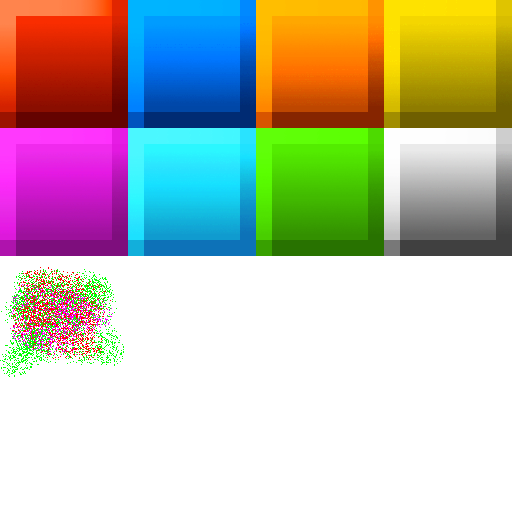
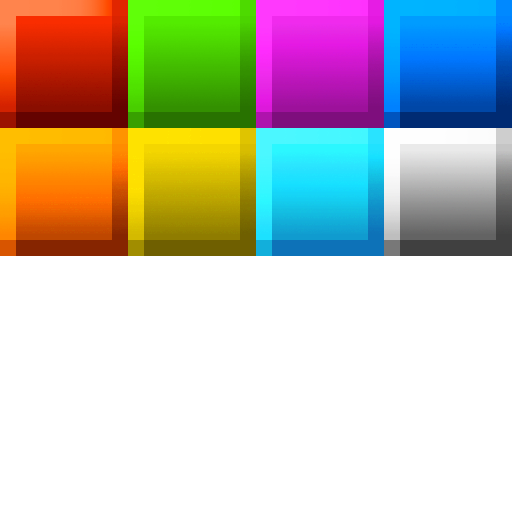
bugfix in color coding for tetrominoes

diff --git a/src/common/shapes.h b/src/common/shapes.h
@@ -28,20 +28,6 @@ enum {
     RIGHT
 };
 
-
-enum {
-    EMPTY = 0,
-    RED,
-    BLUE,
-    ORANGE,
-    YELLOW,
-    PINK,
-    CYAN,
-    GREEN,
-    LOCKED,
-    REMOVED
-};
-
 static int8_t PIECES[NB_TYPES][NB_ROTATIONS][SIZE][SIZE] = {
     { // I
         {
@@ -76,29 +62,29 @@ static int8_t PIECES[NB_TYPES][NB_ROTATIONS][SIZE][SIZE] = {
     { // Z
         {
             {0, 0, 0, 0},
-            {0, 7, 7, 0},
-            {0, 0, 7, 7},
+            {0, 2, 2, 0},
+            {0, 0, 2, 2},
             {0, 0, 0, 0}
         },
 
         {
-            {0, 0, 0, 7},
-            {0, 0, 7, 7},
-            {0, 0, 7, 0},
+            {0, 0, 0, 2},
+            {0, 0, 2, 2},
+            {0, 0, 2, 0},
             {0, 0, 0, 0}
         },
 
         {
             {0, 0, 0, 0},
-            {0, 7, 7, 0},
-            {0, 0, 7, 7},
+            {0, 2, 2, 0},
+            {0, 0, 2, 2},
             {0, 0, 0, 0}
         },
 
         {
-            {0, 0, 0, 7},
-            {0, 0, 7, 7},
-            {0, 0, 7, 0},
+            {0, 0, 0, 2},
+            {0, 0, 2, 2},
+            {0, 0, 2, 0},
             {0, 0, 0, 0}
         }
     },
@@ -106,29 +92,29 @@ static int8_t PIECES[NB_TYPES][NB_ROTATIONS][SIZE][SIZE] = {
     { // S
         {
             {0, 0, 0, 0},
-            {0, 0, 5, 5},
-            {0, 5, 5, 0},
+            {0, 0, 3, 3},
+            {0, 3, 3, 0},
             {0, 0, 0, 0}
         },
 
         {
-            {0, 5, 0, 0},
-            {0, 5, 5, 0},
-            {0, 0, 5, 0},
+            {0, 3, 0, 0},
+            {0, 3, 3, 0},
+            {0, 0, 3, 0},
             {0, 0, 0, 0}
         },
 
         {
             {0, 0, 0, 0},
-            {0, 0, 5, 5},
-            {0, 5, 5, 0},
+            {0, 0, 3, 3},
+            {0, 3, 3, 0},
             {0, 0, 0, 0}
         },
 
         {
-            {0, 5, 0, 0},
-            {0, 5, 5, 0},
-            {0, 0, 5, 0},
+            {0, 3, 0, 0},
+            {0, 3, 3, 0},
+            {0, 0, 3, 0},
             {0, 0, 0, 0}
         }
     },
@@ -136,29 +122,29 @@ static int8_t PIECES[NB_TYPES][NB_ROTATIONS][SIZE][SIZE] = {
     { // J
         {
             {0, 0, 0, 0},
-            {0, 2, 2, 2},
-            {0, 0, 0, 2},
+            {0, 4, 4, 4},
+            {0, 0, 0, 4},
             {0, 0, 0, 0}
         },
 
         {
-            {0, 0, 2, 2},
-            {0, 0, 2, 0},
-            {0, 0, 2, 0},
+            {0, 0, 4, 4},
+            {0, 0, 4, 0},
+            {0, 0, 4, 0},
             {0, 0, 0, 0}
         },
 
         {
             {0, 0, 0, 0},
-            {0, 2, 0, 0},
-            {0, 2, 2, 2},
+            {0, 4, 0, 0},
+            {0, 4, 4, 4},
             {0, 0, 0, 0}
         },
 
         {
-            {0, 0, 2, 0},
-            {0, 0, 2, 0},
-            {0, 2, 2, 0},
+            {0, 0, 4, 0},
+            {0, 0, 4, 0},
+            {0, 4, 4, 0},
             {0, 0, 0, 0}
         }
     },
@@ -166,29 +152,29 @@ static int8_t PIECES[NB_TYPES][NB_ROTATIONS][SIZE][SIZE] = {
     { // L
         {
             {0, 0, 0, 0},
-            {0, 3, 3, 3},
-            {0, 3, 0, 0},
+            {0, 5, 5, 5},
+            {0, 5, 0, 0},
             {0, 0, 0, 0}
         },
 
         {
-            {0, 0, 3, 0},
-            {0, 0, 3, 0},
-            {0, 0, 3, 3},
+            {0, 0, 5, 0},
+            {0, 0, 5, 0},
+            {0, 0, 5, 5},
             {0, 0, 0, 0}
         },
 
         {
             {0, 0, 0, 0},
-            {0, 0, 0, 3},
-            {0, 3, 3, 3},
+            {0, 0, 0, 5},
+            {0, 5, 5, 5},
             {0, 0, 0, 0}
         },
 
         {
-            {0, 3, 3, 0},
-            {0, 0, 3, 0},
-            {0, 0, 3, 0},
+            {0, 5, 5, 0},
+            {0, 0, 5, 0},
+            {0, 0, 5, 0},
             {0, 0, 0, 0}
         }
     },
@@ -196,29 +182,29 @@ static int8_t PIECES[NB_TYPES][NB_ROTATIONS][SIZE][SIZE] = {
     { // O
         {
             {0, 0, 0, 0},
-            {0, 4, 4, 0},
-            {0, 4, 4, 0},
+            {0, 6, 6, 0},
+            {0, 6, 6, 0},
             {0, 0, 0, 0}
         },
 
         {
             {0, 0, 0, 0},
-            {0, 4, 4, 0},
-            {0, 4, 4, 0},
+            {0, 6, 6, 0},
+            {0, 6, 6, 0},
             {0, 0, 0, 0}
         },
 
         {
             {0, 0, 0, 0},
-            {0, 4, 4, 0},
-            {0, 4, 4, 0},
+            {0, 6, 6, 0},
+            {0, 6, 6, 0},
             {0, 0, 0, 0}
         },
 
         {
             {0, 0, 0, 0},
-            {0, 4, 4, 0},
-            {0, 4, 4, 0},
+            {0, 6, 6, 0},
+            {0, 6, 6, 0},
             {0, 0, 0, 0}
         }
     },
@@ -226,29 +212,29 @@ static int8_t PIECES[NB_TYPES][NB_ROTATIONS][SIZE][SIZE] = {
     { // T
         {
             {0, 0, 0, 0},
-            {0, 6, 6, 6},
-            {0, 0, 6, 0},
+            {0, 7, 7, 7},
+            {0, 0, 7, 0},
             {0, 0, 0, 0}
         },
 
         {
-            {0, 0, 6, 0},
-            {0, 0, 6, 6},
-            {0, 0, 6, 0},
+            {0, 0, 7, 0},
+            {0, 0, 7, 7},
+            {0, 0, 7, 0},
             {0, 0, 0, 0}
         },
 
         {
             {0, 0, 0, 0},
-            {0, 0, 6, 0},
-            {0, 6, 6, 6},
+            {0, 0, 7, 0},
+            {0, 7, 7, 7},
             {0, 0, 0, 0}
         },
 
         {
-            {0, 0, 6, 0},
-            {0, 6, 6, 0},
-            {0, 0, 6, 0},
+            {0, 0, 7, 0},
+            {0, 7, 7, 0},
+            {0, 0, 7, 0},
             {0, 0, 0, 0}
         }
     }
